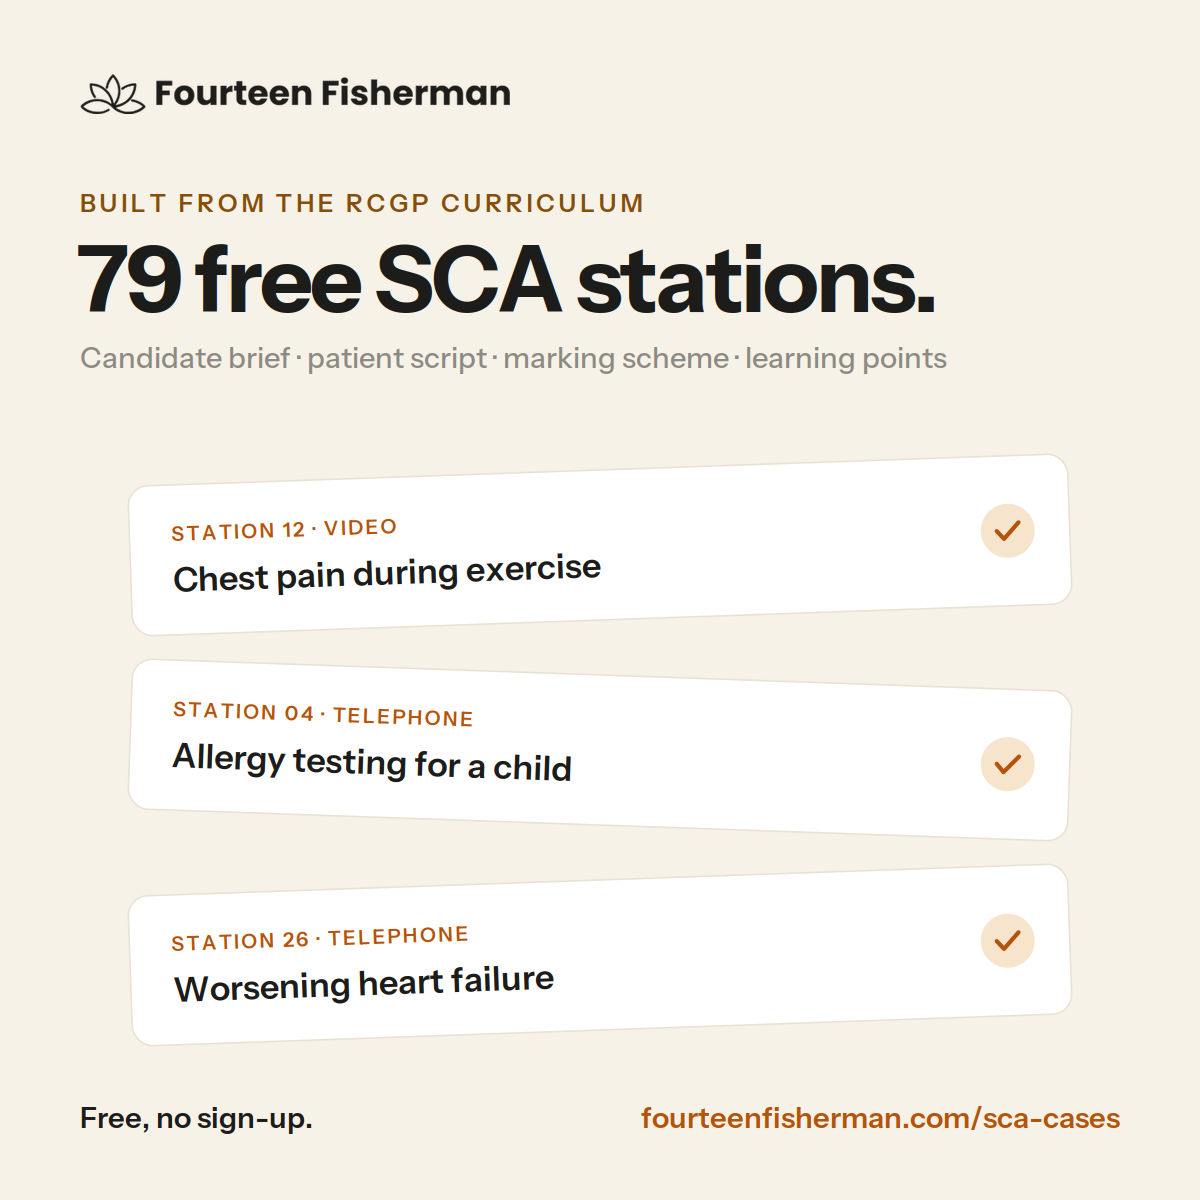
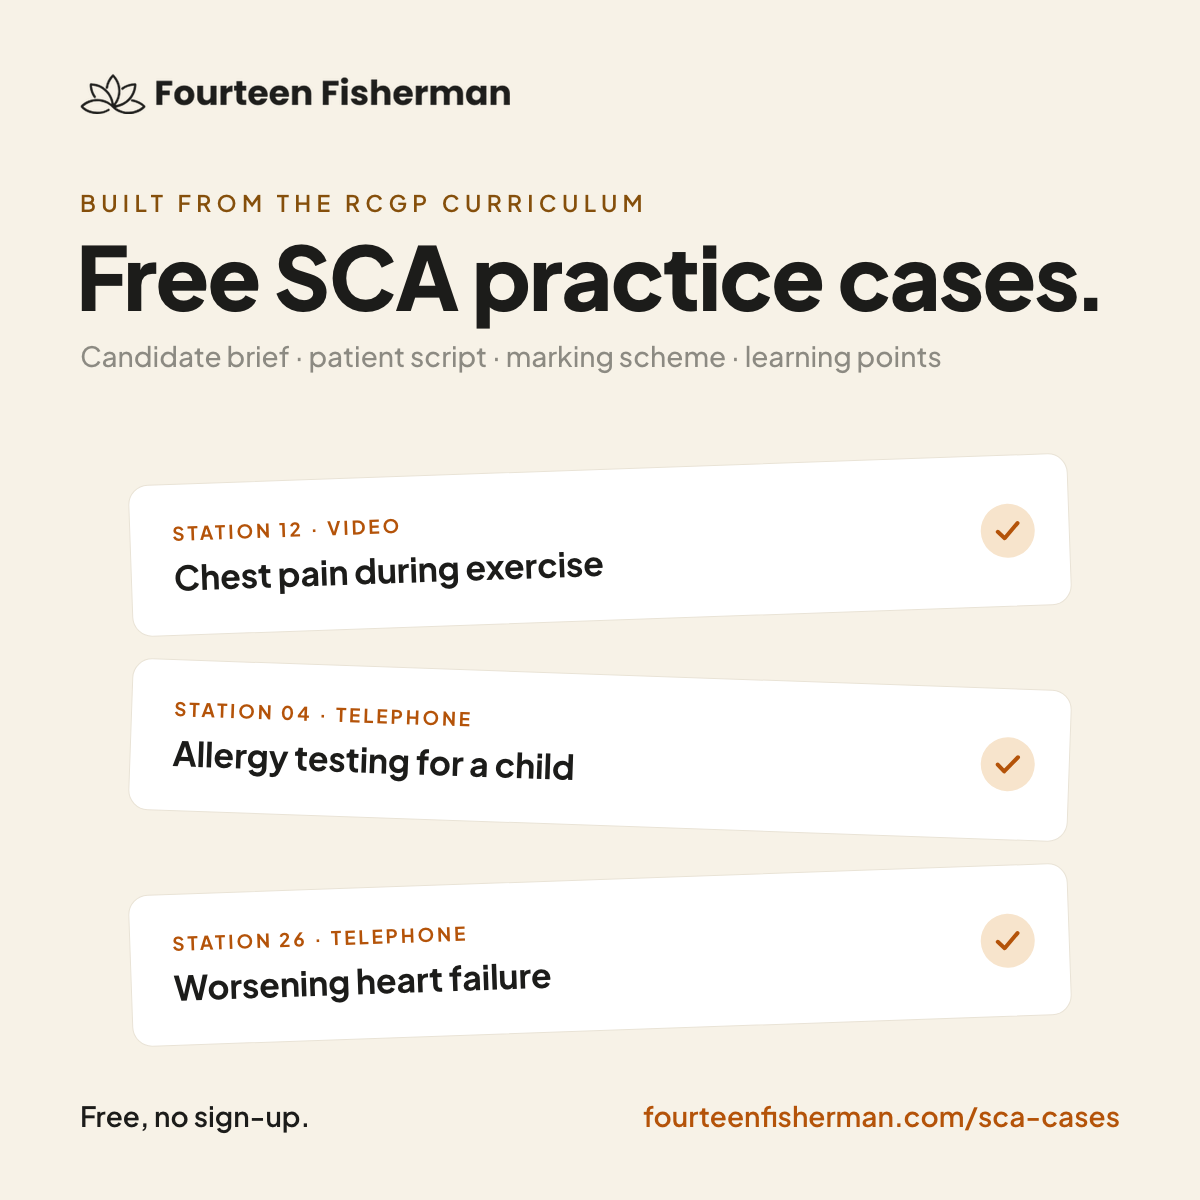
fix(og): count-free /sca-cases share image and alt text
The /sca-cases share image still said "79 free SCA stations" long after
the bank grew. It is a fixed PNG, so it now prints no count at all:
headline "Free SCA practice cases.", same 1200x1200 layout, palette,
Plus Jakarta Sans type, logo and station cards as before (re-rendered
from an HTML card with Playwright, calibrated against the old image).

Alt text now describes the image, still number-free. A test pins the
alt (no digits) and checks the declared width/height against the
PNG's own IHDR.

diff --git a/lib/seo/publicLibraryCopy.test.ts b/lib/seo/publicLibraryCopy.test.ts
@@ -65,3 +65,30 @@ describe('copy that can see the live list prints its real size', () => {
     expect(read('components/guides/GuideTimeline.tsx')).toContain('200 practice cases with marking schemes')
   })
 })
+
+/**
+ * The /sca-cases share image is a fixed PNG, so it prints no count at all: it
+ * said "79 free SCA stations" long after the bank grew. Its alt text describes
+ * what the image shows and is count-free too, and the declared size is the file's.
+ */
+describe('the /sca-cases share image', () => {
+  const page = read('app/sca-cases/page.tsx')
+  const start = page.indexOf('image: {')
+  const imageBlock = page.slice(start, page.indexOf('}', start))
+
+  it('points at the PNG with alt text that describes it and prints no number', () => {
+    expect(imageBlock).toContain("url: '/og/sca-cases.png'")
+    const alt = imageBlock.match(/alt:\s*'([^']+)'/)?.[1]
+    expect(alt).toBe(
+      'Free SCA practice cases built from the RCGP curriculum: candidate brief, patient script, marking scheme and learning points',
+    )
+    expect(alt).not.toMatch(/\d/)
+  })
+
+  it('declares the PNG at its real pixel size', () => {
+    const png = readFileSync(fileURLToPath(new URL('../../public/og/sca-cases.png', import.meta.url)))
+    // PNG IHDR: width and height are big-endian uint32s at byte offsets 16 and 20.
+    expect(imageBlock).toContain(`width: ${png.readUInt32BE(16)},`)
+    expect(imageBlock).toContain(`height: ${png.readUInt32BE(20)},`)
+  })
+})

diff --git a/app/sca-cases/page.tsx b/app/sca-cases/page.tsx
@@ -8,8 +8,8 @@ export const revalidate = 3600;
 
 // The count in the title and description is the live library's real size
 // (read from the same request-cached list the page renders), so it follows the
-// bank as cases are replaced. The share image's alt text stays count-free: the
-// image itself is a fixed PNG.
+// bank as cases are replaced. The share image is a fixed PNG, so neither it nor
+// its alt text prints a count.
 export async function generateMetadata(): Promise<Metadata> {
     const count = publicLibrarySize((await getPublicCasesForList()).length);
 
@@ -21,7 +21,7 @@ export async function generateMetadata(): Promise<Metadata> {
             url: '/og/sca-cases.png',
             width: 1200,
             height: 1200,
-            alt: 'Free SCA stations built from the RCGP curriculum',
+            alt: 'Free SCA practice cases built from the RCGP curriculum: candidate brief, patient script, marking scheme and learning points',
         },
     });
 }
